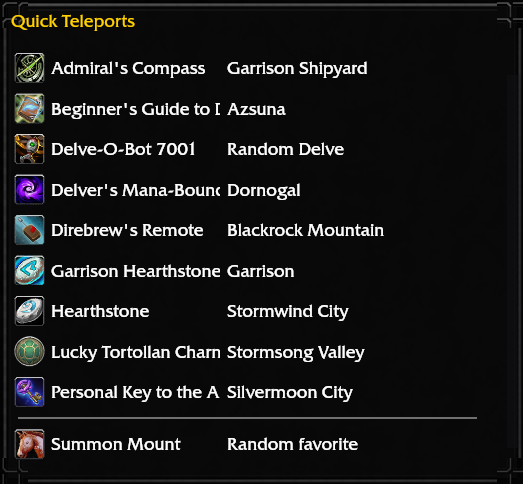
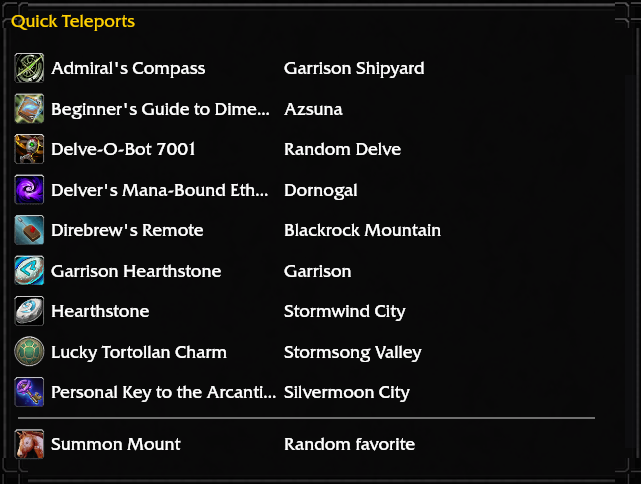
docs: re-render both teleport views against the label fixes
The quick-teleport panel is 380 px wide with columns derived from the row,
and a name that does not fit ends in an ellipsis. The teleport panel's
filter dropdown shows its whole label. The crop bounds in the render
recipe follow the wider panel.

The images landed in #50 before these fixes, so they showed the panels as
they were.

Assisted-by: claude-code:claude-opus-5
Agent-Session: https://claude.ai/code/session_014LbhshbQ8jBjLU2ymEZHbr
Agent-Host: 0493f0

diff --git a/screenshots/seeds/README.md b/screenshots/seeds/README.md
@@ -45,7 +45,7 @@ Crop to the panel with the bounds `--dump-tree` reports, rather than by eye:
 |---|---|---|
 | `route-panel.png` | `QuickRouteMainFrame` | 588, 493 → 1971, 1105 |
 | `teleport-panel.png` | `QuickRouteMainFrame` | 588, 335 → 1971, 1263 |
-| `destination-search.png` | `QRMiniTeleportPanel` | 1728, 179 → 2251, 663 |
+| `destination-search.png` | `QRMiniTeleportPanel` | 1610, 179 → 2251, 663 |
 | `quest-teleport.png` | window and quest tracker | 560, 420 → 2560, 1090 |
 | `settings-panel.png` | Blizzard settings panel | 503, 141 → 2055, 1362 |
 
